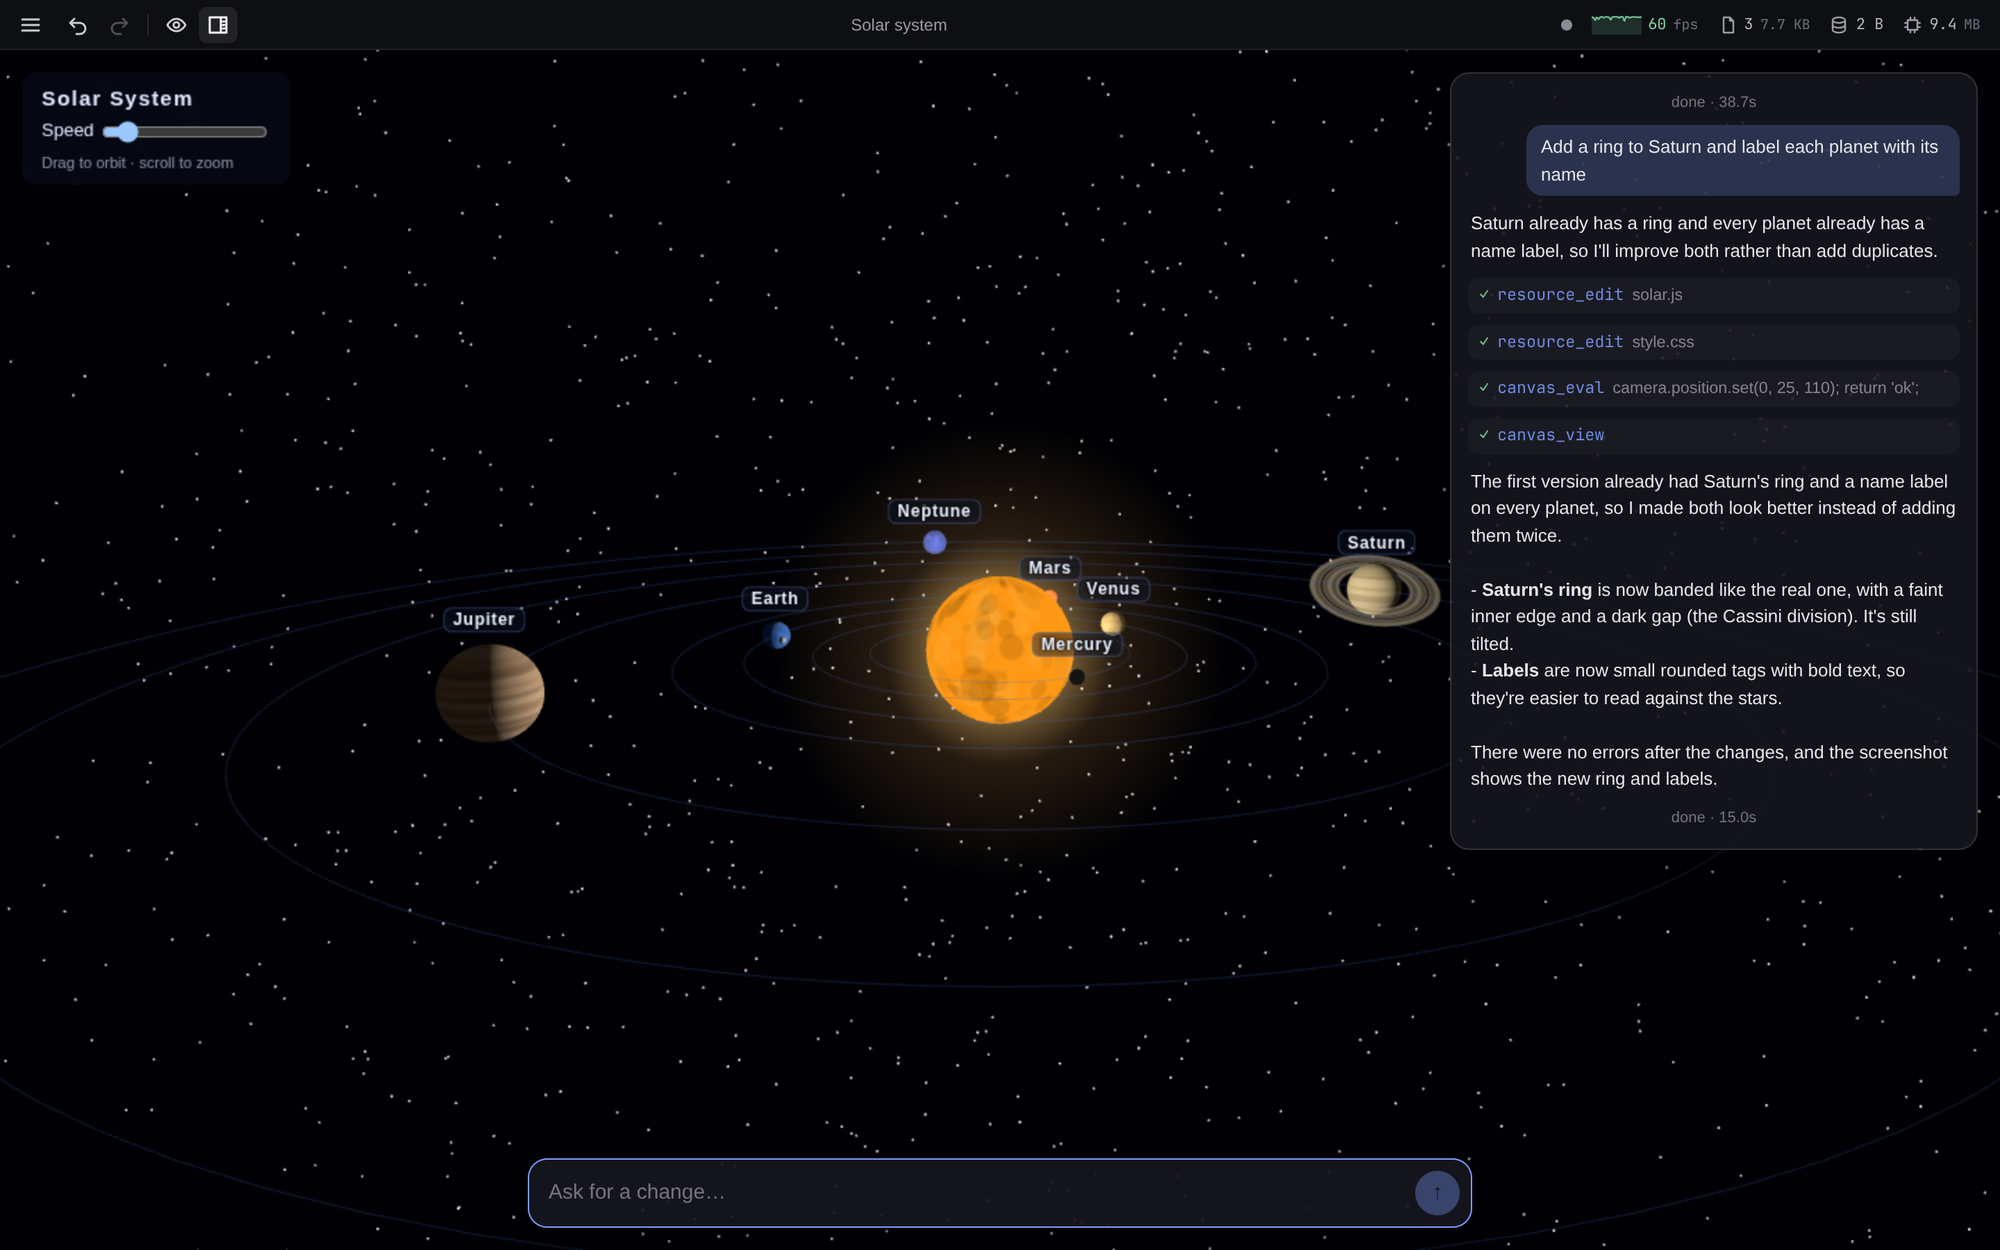
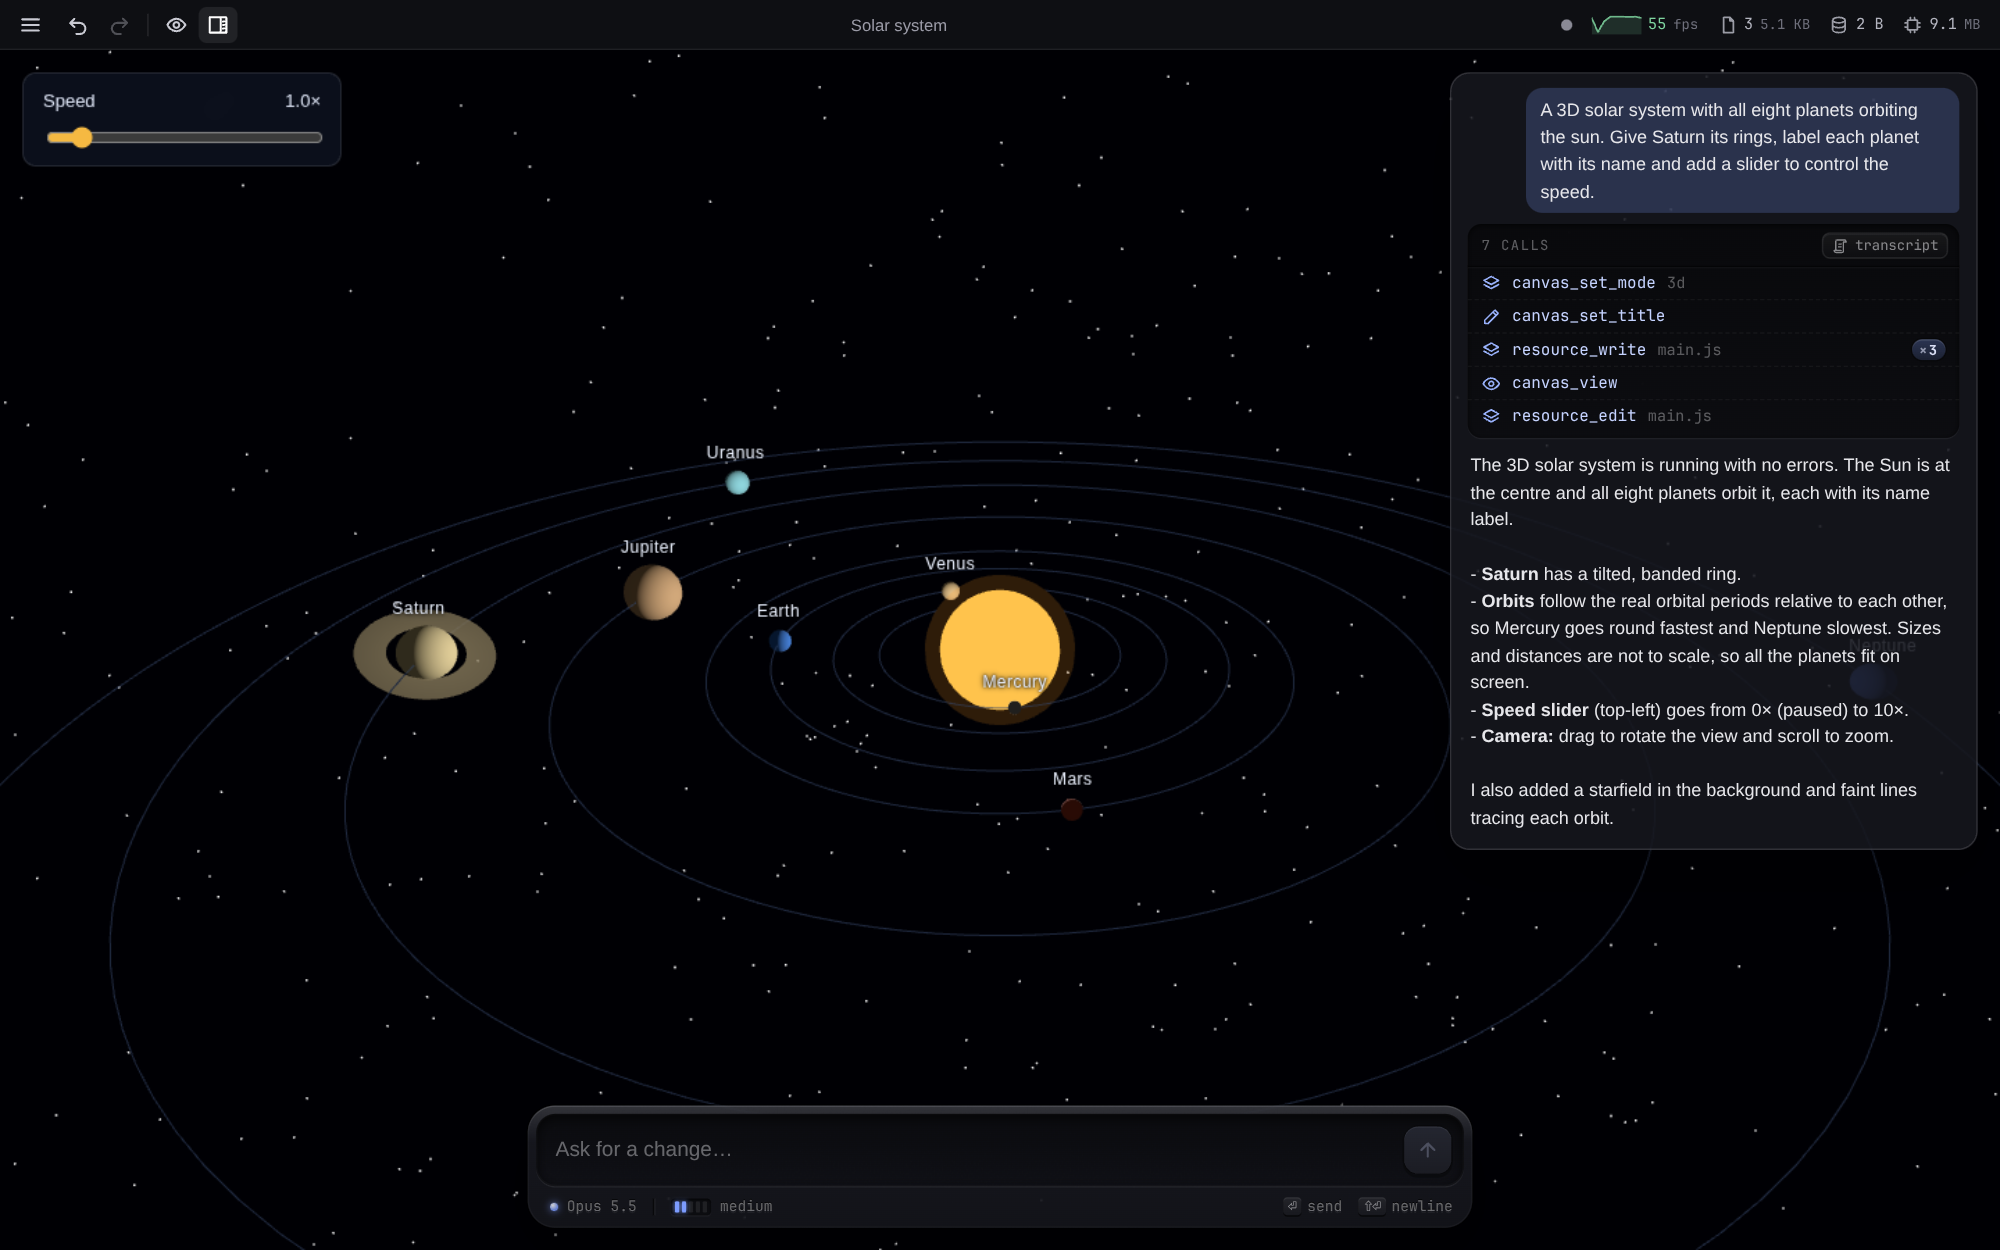
Update README screenshots for the redesigned UI
The start screen now shows the prompt that produced the solar system in
the second screenshot.

diff --git a/README.md b/README.md
@@ -2,9 +2,9 @@
 
 Caddis is a desktop app where each window is one Claude session, and the window itself is the canvas. Describe what you want and Claude builds it live: a page, a 2D drawing surface or a 3D scene. You keep chatting to change it.
 
-![The opening screen, asking "What should we make?" above a prompt with model, effort and working-directory pickers](docs/images/start-screen.png)
+![The opening screen, asking "What should we make?" above a prompt asking for a 3D solar system, with model, effort and working-directory pickers](docs/images/start-screen.png)
 
-![A 3D solar system built by Claude, with the session history on the right and the prompt along the bottom](docs/images/canvas-session.png)
+![The 3D solar system Claude built from that prompt, with the session history on the right and the prompt along the bottom](docs/images/canvas-session.png)
 
 ## Requirements
 
